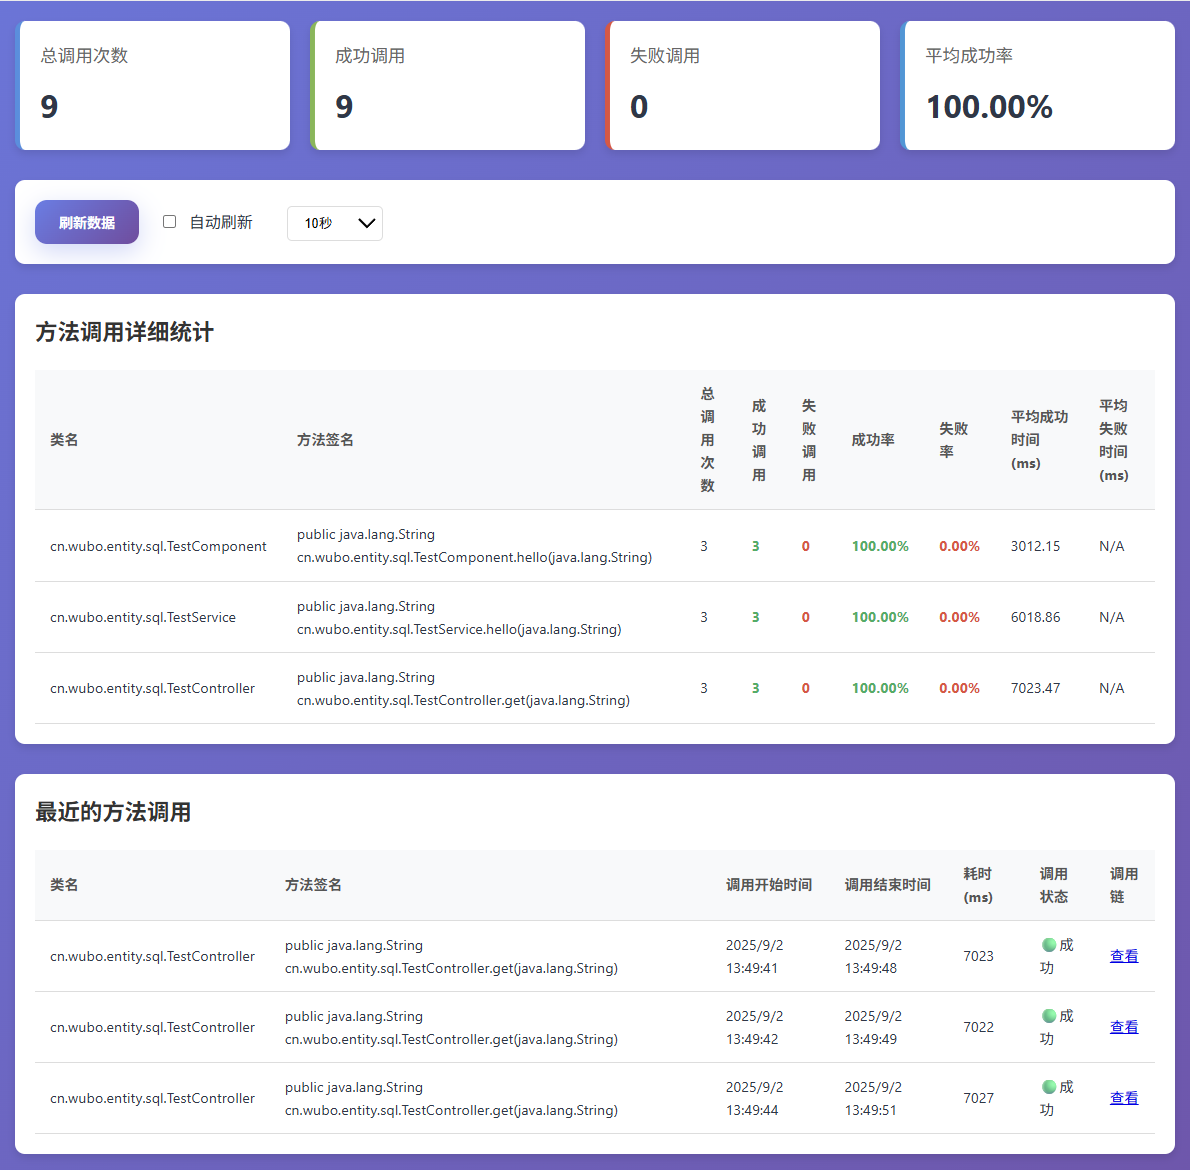
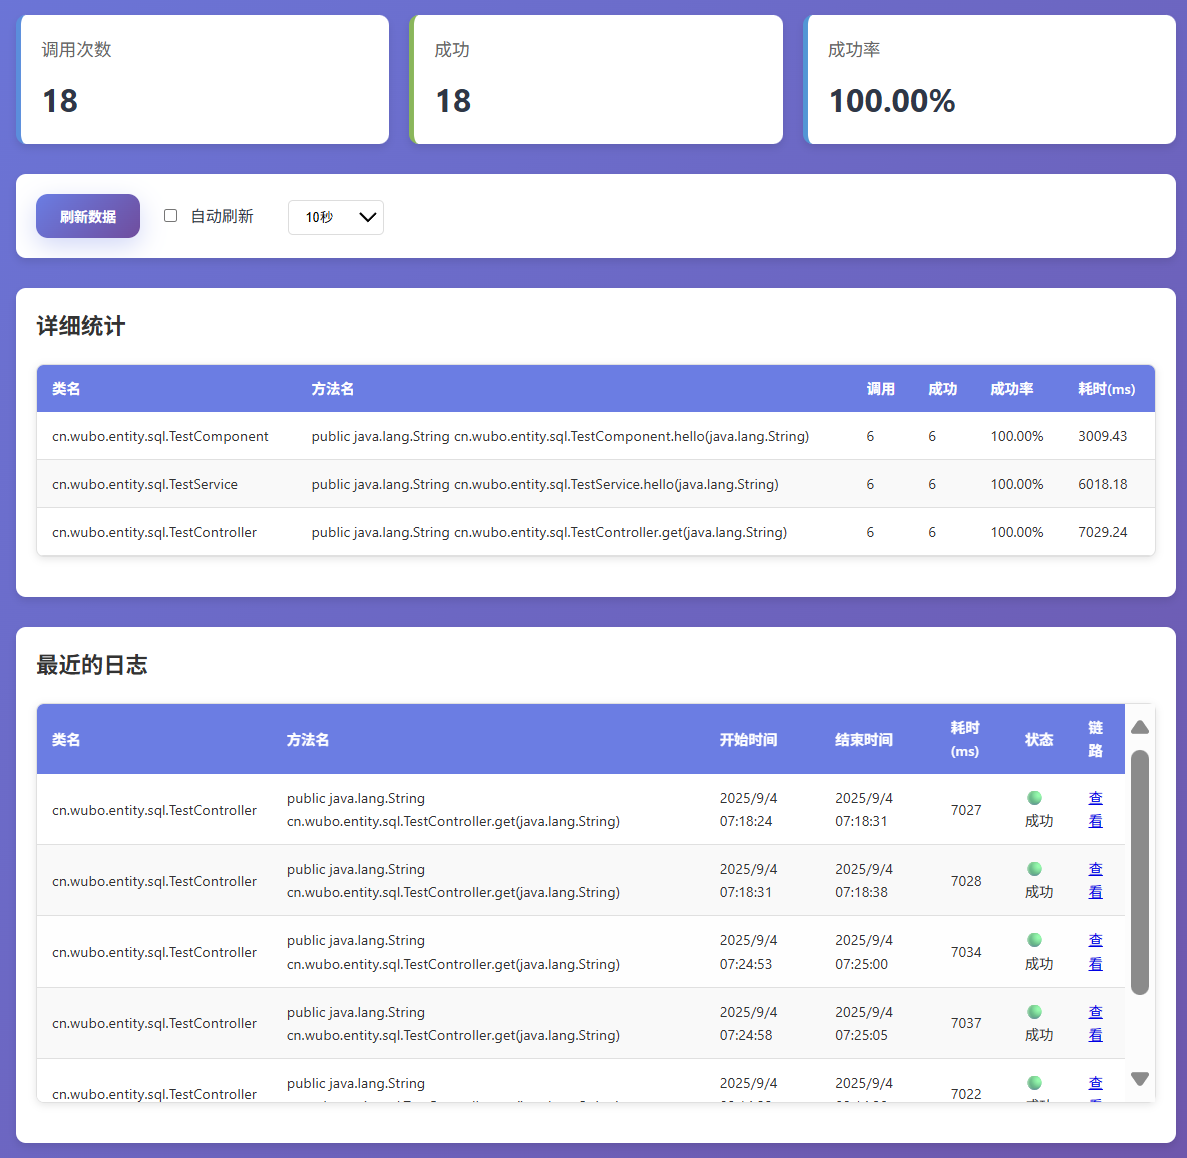
refactor(monitor): 重构监控页面样式和布局
- 移除冗余的 CSS 样式，优化表格样式
- 添加新的表格容器样式，实现滚动和响应式布局
- 更新 HTML 结构，优化卡片和表格标题
- 调整 JavaScript 代码，适应新的 HTML 结构
- 移除失败调用相关显示，简化界面

Changed region(s): [[0.0, 0.0, 0.9975, 0.9948], [0.0312, 0.7461, 0.5299, 0.9637], [0.5922, 0.7461, 0.7793, 0.9637]]

diff --git a/methodTraceLog/src/main/resources/META-INF/resources/static/monitor.js b/methodTraceLog/src/main/resources/META-INF/resources/static/monitor.js
@@ -70,7 +70,7 @@ function updateSummary(data) {
 
     document.getElementById('totalCount').textContent = totalCount.toLocaleString();
     document.getElementById('successCount').textContent = successCount.toLocaleString();
-    document.getElementById('failureCount').textContent = failureCount.toLocaleString();
+    // document.getElementById('failureCount').textContent = failureCount.toLocaleString();
     document.getElementById('avgSuccessRate').textContent = avgSuccessRate + '%';
 }
 
@@ -87,21 +87,19 @@ function updateTable(data) {
     }
 
     let tableHTML = `
+            <div class="table-wrapper">
                 <table>
                     <thead>
-                        <tr>
+                    <tr>
                             <th>类名</th>
-                            <th>方法签名</th>
-                            <th>总调用次数</th>
-                            <th>成功调用</th>
-                            <th>失败调用</th>
+                            <th>方法名</th>
+                            <th>调用</th>
+                            <th>成功</th>
                             <th>成功率</th>
-                            <th>失败率</th>
-                            <th>平均成功时间(ms)</th>
-                            <th>平均失败时间(ms)</th>
-                        </tr>
-                    </thead>
-                    <tbody>
+                            <th>耗时(ms)</th>
+                    </tr>
+                </thead>
+            <tbody>
             `;
 
     data.forEach(item => {
@@ -110,19 +108,17 @@ function updateTable(data) {
                         <td>${item.className}</td>
                         <td>${item.methodSignature}</td>
                         <td>${item.totalCalls.toLocaleString()}</td>
-                        <td class="success-rate">${item.successCalls.toLocaleString()}</td>
-                        <td class="failure-rate">${item.failedCalls.toLocaleString()}</td>
-                        <td class="success-rate">${item.successRate.toFixed(2)}%</td>
-                        <td class="failure-rate">${item.failureRate.toFixed(2)}%</td>
+                        <td>${item.successCalls.toLocaleString()}</td>
+                        <td>${item.successRate.toFixed(2)}%</td>
                         <td>${item.averageSuccessTime ? item.averageSuccessTime.toFixed(2) : 'N/A'}</td>
-                        <td>${item.averageFailureTime ? item.averageFailureTime.toFixed(2) : 'N/A'}</td>
                     </tr>
                 `;
     });
 
     tableHTML += `
-                    </tbody>
-                </table>
+            </tbody>
+        </table>
+    </div>
             `;
 
     methodtrace.innerHTML = tableHTML;
@@ -141,19 +137,20 @@ function updateMethodTable(data) {
     }
 
     let tableHTML = `
+            <div class="table-wrapper">
                 <table>
                     <thead>
-                        <tr>
-                            <th>类名</th>
-                            <th>方法签名</th>
-                            <th>调用开始时间</th>
-                            <th>调用结束时间</th>
-                            <th>耗时(ms)</th>
-                            <th>调用状态</th>
-                            <th>调用链</th>
-                        </tr>
-                    </thead>
-                    <tbody>
+                    <tr>
+                        <th>类名</th>
+                        <th>方法名</th>
+                        <th>开始时间</th>
+                        <th>结束时间</th>
+                        <th>耗时(ms)</th>
+                        <th>状态</th>
+                        <th>链路</th>
+                    </tr>
+                </thead>
+            <tbody>
             `;
 
     data.forEach(item => {
@@ -166,22 +163,22 @@ function updateMethodTable(data) {
         let status = item.after != null ? (item.after.logActionEnum == "AFTER_RETURN" ? "🟢成功" : "🔴失败") : "🟡调用中";
 
         tableHTML += `
-                    <tr>
-                        <td>${className}</td>
-                        <td>${methodSignature}</td>
-                        <td>${start}</td>
-                        <td>${end}</td>
-                        <td>${period}</td>
-                        <td>${status}</td>
-                        <td><a href="javascript:void(0);" onclick="openModal('${traceid}')">查看</a>
-</td>
-                    </tr>
+                 <tr>
+                    <td>${className}</td>
+                    <td>${methodSignature}</td>
+                    <td>${start}</td>
+                    <td>${end}</td>
+                    <td>${period}</td>
+                    <td>${status}</td>
+                    <td><a href="javascript:void(0);" onclick="openModal('${traceid}')">查看</a></td>
+                </tr>
                 `;
     });
 
     tableHTML += `
-                    </tbody>
-                </table>
+            </tbody>
+        </table>
+    </div>
             `;
 
     method.innerHTML = tableHTML;

diff --git a/methodTraceLog/src/main/resources/META-INF/resources/static/monitor.css b/methodTraceLog/src/main/resources/META-INF/resources/static/monitor.css
@@ -84,38 +84,6 @@ body {
     font-size: 1.4em;
 }
 
-table {
-    width: 100%;
-    border-collapse: collapse;
-    margin-top: 15px;
-}
-
-th, td {
-    padding: 12px 15px;
-    text-align: left;
-    border-bottom: 1px solid #ddd;
-}
-
-th {
-    background-color: #f8f9fa;
-    font-weight: bold;
-    color: #555;
-}
-
-tr:hover {
-    background-color: #f5f5f5;
-}
-
-.success-rate {
-    color: #27ae60;
-    font-weight: bold;
-}
-
-.failure-rate {
-    color: #e74c3c;
-    font-weight: bold;
-}
-
 /* 控制面板 */
 .control-panel {
     background: white;
@@ -317,4 +285,94 @@ table {
 .node-info-label {
     font-weight: bold;
     margin-right: 5px;
+}
+
+/* 表格容器样式 - 控制滚动 */
+.table-wrapper {
+    width: 100%;
+    overflow-x: auto; /* 横向滚动 */
+    overflow-y: auto; /* 纵向滚动 */
+    max-height: 400px; /* 固定高度，根据需要调整 */
+    margin: 20px 0;
+    border: 1px solid #e0e0e0;
+    border-radius: 8px;
+    box-shadow: 0 2px 8px rgba(0, 0, 0, 0.1);
+    background-color: #fff;
+}
+
+/* 表格基础样式 */
+table {
+    width: 100%;
+    border-collapse: collapse;
+    font-family: 'Segoe UI', Tahoma, Geneva, Verdana, sans-serif;
+}
+
+/* 表头样式 */
+thead {
+    position: sticky;
+    top: 0;
+    z-index: 10;
+}
+
+thead th {
+    background: #667eea;
+    color: white;
+    box-shadow: 0 8px 25px rgba(102, 126, 234, 0.3);
+    padding: 12px 15px;
+    text-align: left;
+    font-weight: 600;
+    position: relative;
+}
+
+/* 表格内容样式 */
+tbody tr {
+    border-bottom: 1px solid #e0e0e0;
+    transition: background-color 0.2s;
+}
+
+tbody tr:hover {
+    background-color: #f5f5f5;
+}
+
+tbody td {
+    padding: 12px 15px;
+    color: #333;
+}
+
+/* 斑马纹效果 */
+tbody tr:nth-child(even) {
+    background-color: #f9f9f9;
+}
+
+tbody tr:nth-child(even):hover {
+    background-color: #f0f0f0;
+}
+
+/* 滚动条美化 - Webkit浏览器 */
+.table-container::-webkit-scrollbar {
+    height: 8px;
+    width: 8px;
+}
+
+.table-container::-webkit-scrollbar-track {
+    background: #f1f1f1;
+    border-radius: 4px;
+}
+
+.table-container::-webkit-scrollbar-thumb {
+    background: #c1c1c1;
+    border-radius: 4px;
+}
+
+.table-container::-webkit-scrollbar-thumb:hover {
+    background: #a8a8a8;
+}
+
+/* 响应式调整 - 在小屏幕上增加内边距 */
+@media (max-width: 768px) {
+    thead th,
+    tbody td {
+        padding: 8px 10px;
+        font-size: 14px;
+    }
 }

diff --git a/methodTraceLog/src/main/resources/monitor.html b/methodTraceLog/src/main/resources/monitor.html
@@ -12,19 +12,19 @@
     <!-- 摘要统计卡片 -->
     <div class="summary-cards">
         <div class="card card-primary">
-            <div class="card-title">总调用次数</div>
+            <div class="card-title">调用次数</div>
             <div class="card-text" id="totalCount">0</div>
         </div>
         <div class="card card-success">
-            <div class="card-title">成功调用</div>
+            <div class="card-title">成功</div>
             <div class="card-text" id="successCount">0</div>
         </div>
-        <div class="card card-danger">
-            <div class="card-title">失败调用</div>
-            <div class="card-text" id="failureCount">0</div>
-        </div>
+<!--        <div class="card card-danger">-->
+<!--            <div class="card-title">失败调用</div>-->
+<!--            <div class="card-text" id="failureCount">0</div>-->
+<!--        </div>-->
         <div class="card card-info">
-            <div class="card-title">平均成功率</div>
+            <div class="card-title">成功率</div>
             <div class="card-text" id="avgSuccessRate">0%</div>
         </div>
     </div>
@@ -47,7 +47,7 @@
     <!-- 方法调用统计表 -->
     <div class="table-container">
         <div class="table-header">
-            <h4>方法调用详细统计</h4>
+            <h4>详细统计</h4>
         </div>
         <div id="methodtrace">
             <div class="loading">
@@ -60,7 +60,7 @@
     <!-- 方法调用表 -->
     <div class="table-container">
         <div class="table-header">
-            <h4>最近的方法调用</h4>
+            <h4>最近的日志</h4>
         </div>
         <div id="method">
             <div class="loading">
